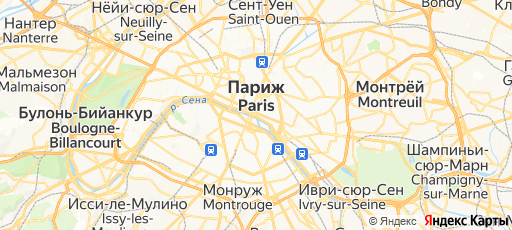
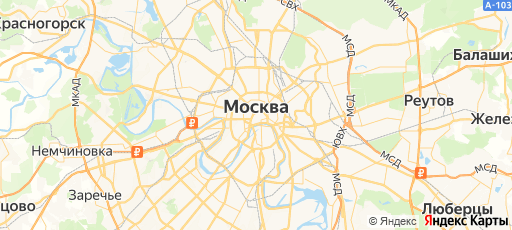
With helper

diff --git a/main.py b/main.py
@@ -184,6 +184,16 @@ def handle_dialog(req, res):
                                    "переключение темы и стиля карты (обычный, водительский, транспортный). "
                                    "Ещё существует команда 'Очистка' для очищения параметров карты.")
         return
+    if 'помощь' in req["request"]["command"] or 'что ты умеешь' in req["request"]["command"]:
+        res["response"]["text"] = ("Привет, я путеводитель. "
+                                   "Напиши место, которое хочешь увидеть на карте. "
+                                   "Ты можешь указать масштаб карты, "
+                                   "где 1 - вся планета, 21 - максимальное приближение. "
+                                   "А также метки и/или маршруты, а я отображу всё это на карте. "
+                                   "Как дополнительные возможности можно использовать "
+                                   "переключение темы и стиля карты (обычный, водительский, транспортный). "
+                                   "Ещё существует команда 'Очистка' для очищения параметров карты.")
+        return
     # ------------------------------------------------------------------------------------------------------------------
     # Изменение параметров карты в зависимости от переданных переменных
     message_sections = cut_in_sections(req["request"]["nlu"], user_id)